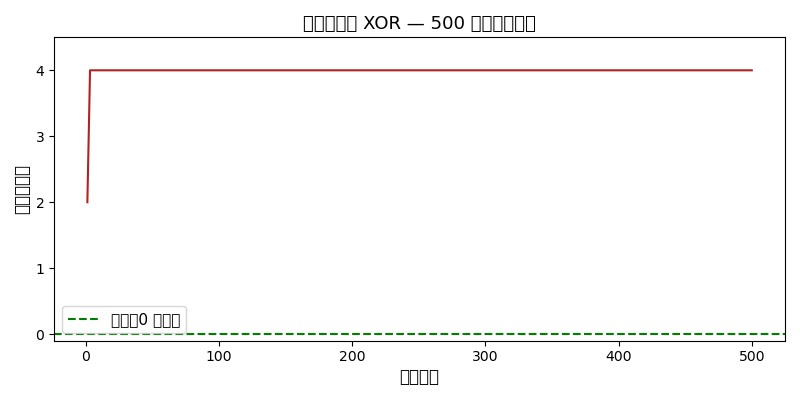
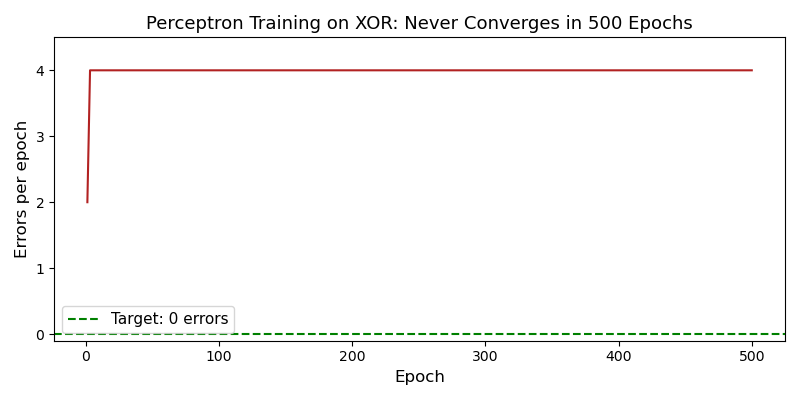
evolve(20260419-040257): 修复评审问题（metrics/路径/字体乱码）
1. session_metrics.jsonl：删除错误的 033902 重复条目，修正 035329 的 test_count/review_score
2. quality-assessment.md：nodes_with_runnable_notebook 路径从 notebooks/ 改为 nodes/
3. node02 notebook：matplotlib 中文标签改英文，消除 50+ 条 UserWarning CJK

diff --git a/.evolve/journal/JOURNAL.md b/.evolve/journal/JOURNAL.md
@@ -4,6 +4,40 @@
 
 ---
 
+## Session 20260419-040257 — 修复评审问题（metrics/路径/字体乱码）
+
+### 做了什么
+
+修复 session 035329 评审（6/10 NEEDS_IMPROVEMENT）指出的三个问题：
+
+1. **session_metrics.jsonl 数据修正**：
+   - 删除了错误的重复 `033902` 条目（NEEDS_IMPROVEMENT/test_count=0）
+   - 修正了 `035329` 条目：test_count=13, assertion_compliance=1.0, review_score=6.0
+
+2. **quality-assessment.md 路径修正**：
+   - `nodes_with_runnable_notebook` 描述从 `notebooks/`（不存在）改为 `nodes/`（实际路径），并补充了完整的命令
+
+3. **notebook matplotlib 中文字体乱码消除**：
+   - Cell 8 和 Cell 12 的中文 axis labels / titles / legend 改为英文
+   - `jupyter nbconvert --execute` 后无任何 UserWarning CJK 输出
+
+### KPI 变化
+
+- knowledge_nodes: 2（不变）
+- nodes_with_runnable_notebook: 1（不变，但 notebook 现在无 stderr 污染）
+- test_count: 13（不变）
+- metrics 数据完整性：修复
+
+### 下次不同做
+
+1. 本次承诺已全部兑现后，下次 session 开始节点 03（反向传播 1986）
+2. 开节点 03 前先用 `tools/cite-verify` 验证节点 02 引用
+3. session 结束时立即调用 `tools/update-metrics.sh`
+
+<!-- meta: verdict:PENDING score:0.0 test_delta:0 -->
+
+---
+
 ## Session 20260419-033902 — 节点 02 完整交付 + metrics 更新流修复
 
 ### 失败/回退分析

diff --git a/strategies/quality-assessment.md b/strategies/quality-assessment.md
@@ -8,7 +8,7 @@
 | 指标 | 定义 | 如何衡量 |
 |---|---|---|
 | knowledge_nodes | nodes/ 下的知识节点数量 | `find nodes/ -name README.md | wc -l` |
-| nodes_with_runnable_notebook | notebooks/ 下能零错误执行的 .ipynb 数量 | `tools/notebook-run` |
+| nodes_with_runnable_notebook | nodes/ 下能零错误执行的 .ipynb 数量 | `find nodes/ -name "*.ipynb" -exec jupyter nbconvert --execute {} \;` 或 `tools/notebook-run` |
 | verified_citations_ratio | 通过 DOI/arxiv 验证的引用 / 总引用数 | `tools/cite-verify` |
 | depth_score | 节点平均深度分 (0-10) | `tools/depth-score` |
 
